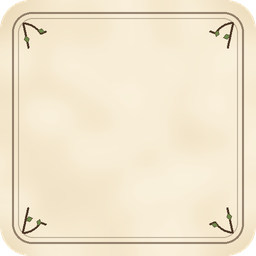
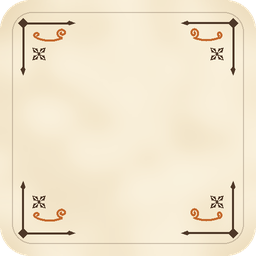
Frame corners after a storybook reference
Each corner is now a bracket of fine rule with a diamond where it turns
and lance tips at its ends, a rust tendril ending in a curl, and a small
four-petalled flower; the inner rule is gone and sheets have more room
inside so nothing sits on the ornaments.

Changed region(s): [[0.0312, 0.0312, 0.9688, 0.9688]]

diff --git a/tools/make_ui_art.py b/tools/make_ui_art.py
@@ -74,6 +74,67 @@ def leaf(d, x, y, sx, sy, ang, size):
     d.polygon([(x, y), (mid[0] + nx, mid[1] + ny), tip, (mid[0] - nx, mid[1] - ny)], fill=MOSS + (255,), outline=INK + (255,))
 
 
+RUST = (196, 104, 44)
+
+
+def lance(d, x, y, dx, dy, size, col):
+    """A small lance tip pointing (dx, dy)."""
+    nx, ny = -dy, dx
+    d.polygon([(x + dx * size, y + dy * size), (x + nx * size * 0.35, y + ny * size * 0.35),
+               (x - dx * size * 0.5, y - dy * size * 0.5), (x - nx * size * 0.35, y - ny * size * 0.35)], fill=col)
+
+
+def quatrefoil(d, x, y, r, col, width, back):
+    """A four-petalled flower: four filled pointed petals, each with a light
+    vein, round a small eye."""
+    for k in range(4):
+        a = k * math.pi / 2 + math.pi / 4
+        ca, sa = math.cos(a), math.sin(a)
+        tip = (x + ca * r, y + sa * r)
+        mid = (x + ca * r * 0.55, y + sa * r * 0.55)
+        side = (-sa * r * 0.3, ca * r * 0.3)
+        d.polygon([(x + ca * r * 0.12, y + sa * r * 0.12), (mid[0] + side[0], mid[1] + side[1]), tip, (mid[0] - side[0], mid[1] - side[1])], fill=col)
+        d.line([(x + ca * r * 0.3, y + sa * r * 0.3), (x + ca * r * 0.72, y + sa * r * 0.72)], fill=back, width=max(1, width // 2))
+    d.ellipse([x - r * 0.16, y - r * 0.16, x + r * 0.16, y + r * 0.16], fill=col)
+
+
+def spiral(x, y, r0, turns, sx, sy, start):
+    """Points of a spiral winding inward from radius r0."""
+    pts = []
+    n = int(90 * turns)
+    for k in range(n + 1):
+        t = k / n
+        a = start + sx * sy * t * turns * 2 * math.pi
+        r = r0 * (1.0 - t * 0.85)
+        pts.append((x + math.cos(a) * r, y + math.sin(a) * r))
+    return pts
+
+
+def scroll(d, x, y, sx, size, col, width):
+    """A tendril along the edge ending in a curl, like a fiddlehead."""
+    end = (x + sx * size * 1.3, y)
+    stem = [(x - sx * size * 1.2 + sx * t * size * 2.5 / 60, y + math.sin(t / 60 * math.pi) * size * 0.25) for t in range(61)]
+    d.line(stem, fill=col, width=width, joint="curve")
+    cx, cy = stem[-1][0], stem[-1][1] - size * 0.5
+    d.line(spiral(cx, cy, size * 0.5, 1.4, sx, 1, math.pi / 2), fill=col, width=width, joint="curve")
+    d.line(spiral(stem[0][0], stem[0][1] - size * 0.32, size * 0.32, 1.1, -sx, -1, math.pi / 2), fill=col, width=width, joint="curve")
+
+
+def corner(d, cx, cy, sx, sy, scale, ink):
+    """One corner: a bracket of fine rule with a diamond where it turns and
+    lance tips at its ends, a rust scroll and a little flower inside it."""
+    w = max(1, int(2 * scale))
+    reach = 46 * scale
+    d.line([(cx, cy), (cx + sx * reach, cy)], fill=ink, width=w)
+    d.line([(cx, cy), (cx, cy + sy * reach)], fill=ink, width=w)
+    s = 5 * scale
+    d.polygon([(cx - s, cy), (cx, cy - s), (cx + s, cy), (cx, cy + s)], fill=ink)
+    lance(d, cx + sx * reach, cy, sx, 0, 6 * scale, ink)
+    lance(d, cx, cy + sy * reach, 0, sy, 6 * scale, ink)
+    scroll(d, cx + sx * 26 * scale, cy + sy * 15 * scale, sx, 10 * scale, RUST + (255,), w)
+    quatrefoil(d, cx + sx * 16 * scale, cy + sy * 31 * scale, 9 * scale, ink, w, PARCH + (255,))
+
+
 def panel(name, size, seed, corner_curls=True, radius=30):
     w = h = size * S
     img = parchment(w, h, seed, radius=radius)
@@ -81,13 +142,12 @@ def panel(name, size, seed, corner_curls=True, radius=30):
     d = ImageDraw.Draw(ink)
     m = 12 * S
     # a double rule, the inner one finer
-    d.rounded_rectangle([m, m, w - 1 - m, h - 1 - m], radius=(radius - 10) * S, outline=INK + (150,), width=2 * S)
+    d.rounded_rectangle([m, m, w - 1 - m, h - 1 - m], radius=(radius - 10) * S, outline=INK + (70,), width=1 * S)
     m2 = m + 6 * S
-    d.rounded_rectangle([m2, m2, w - 1 - m2, h - 1 - m2], radius=(radius - 15) * S, outline=INK + (90,), width=1 * S)
     if corner_curls:
         c = m2 + 5 * S
         for sx, sy, cx, cy in ((1, 1, c, c), (-1, 1, w - c, c), (1, -1, c, h - c), (-1, -1, w - c, h - c)):
-            curl(d, cx, cy, sx, sy, S * 0.55, 2 * S)
+            corner(d, cx, cy, sx, sy, S, INK + (255,))
     img.alpha_composite(ink)
     img = img.resize((size, size), Image.LANCZOS)
     img.save(os.path.join(OUT, name + ".png"))
